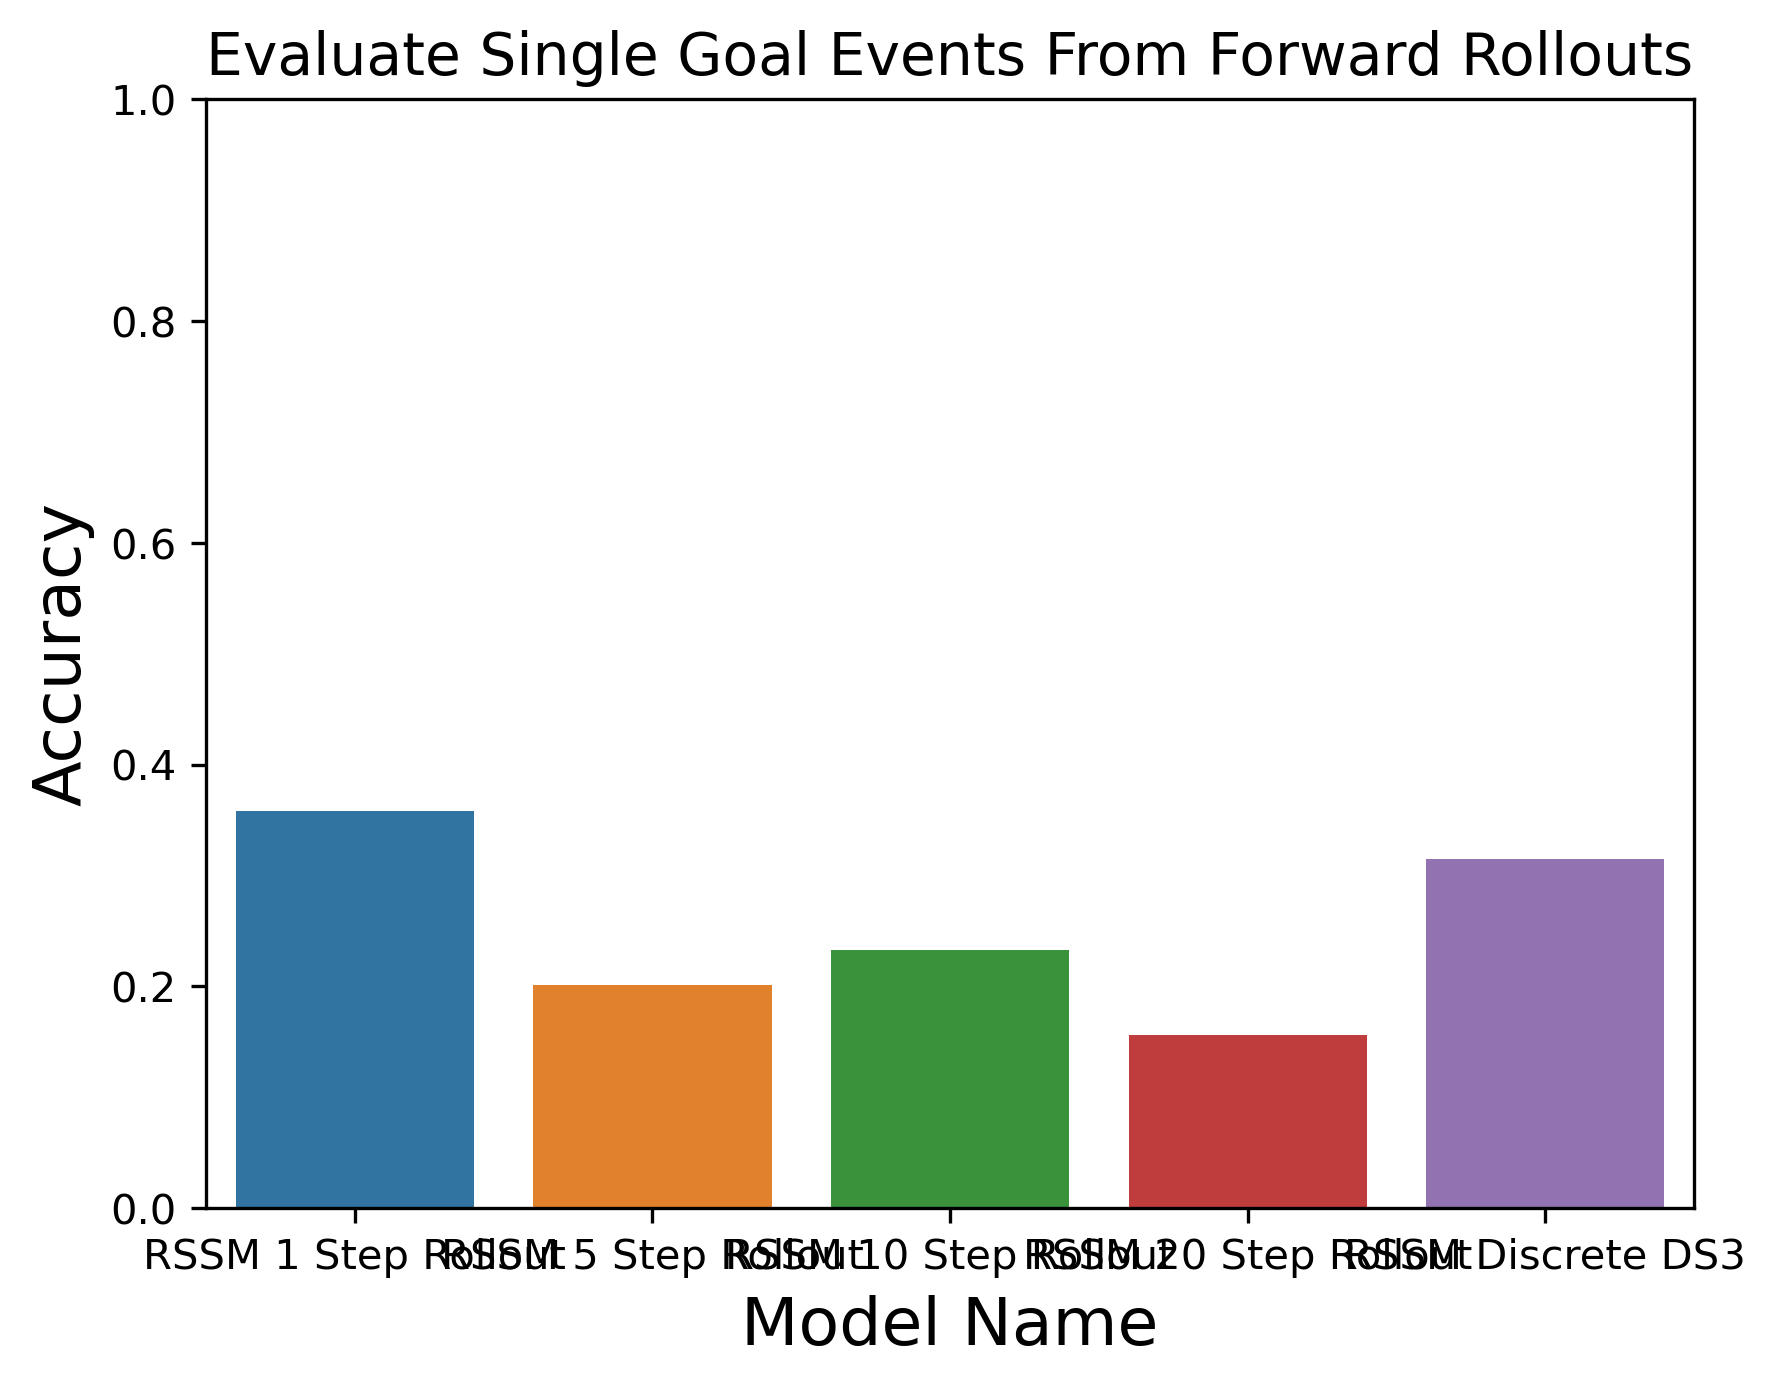
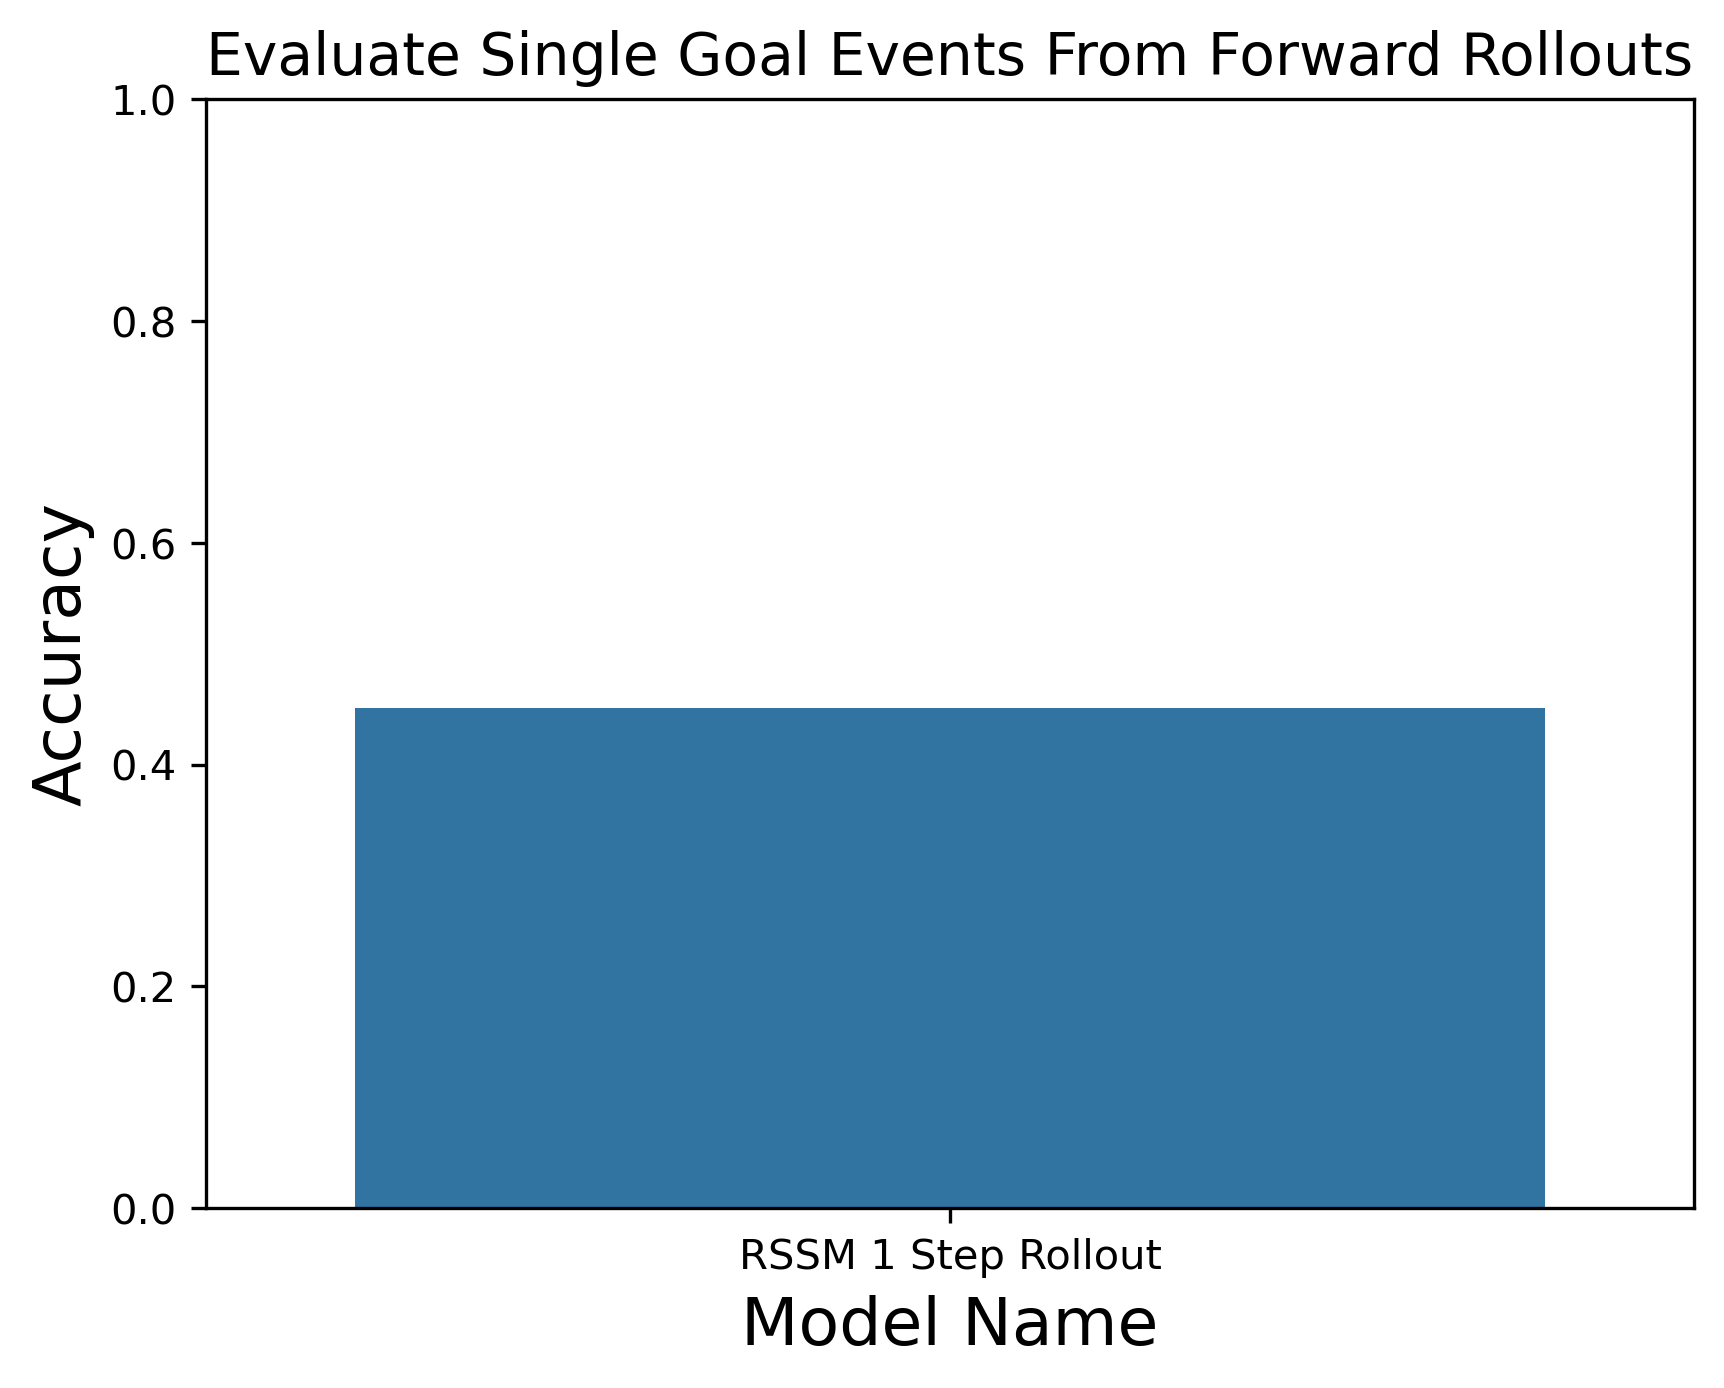
New results

diff --git a/eval_event_model_gt_temp.py b/eval_event_model_gt_temp.py
@@ -219,6 +219,12 @@ class Analysis(object):
         imagined_trajs = np.zeros([num_multi_goal_trajs, input_data.shape[1], input_data.shape[2]])
         real_trajs = []
         imag_trajs = []
+
+        # TEMP
+        # load events data
+        events_ds_file = os.path.join(args.analysis_dir,'results/event_inds/event_inds_mp_ds2.pkl')
+        events_dataset = pickle.load(open(events_ds_file, 'rb'))
+        event_inds = events_dataset[args.train_or_val]
         
         for i,row in enumerate(multi_goal_trajs):
             if i%50 == 0:
@@ -230,7 +236,25 @@ class Analysis(object):
             imagined_trajs[i,:steps2pickup,:] = x[:,:steps2pickup,:].cpu()
             # rollout model for the rest of the trajectory
             rollout_length = self.num_timepoints - steps2pickup
-            rollout_x = model.forward_rollout(x.cuda(), steps2pickup, rollout_length).cpu().detach()
+            # TEMP
+            # get closest future event state in that trajectory from burn in state
+            traj_event_inds = np.array(event_inds[row])
+            burn_in_ind = steps2pickup - 1
+            if args.use_end_state:
+                closest_event_ind = -1
+            else:
+                closest_event_ind = np.min(traj_event_inds[np.where(traj_event_inds > burn_in_ind)[0]])
+            # get event horizon from end state
+            event_horizon = closest_event_ind - burn_in_ind
+            event_state = input_data[row,closest_event_ind,:].unsqueeze(0)
+            assert torch.equal(event_state, x[:,closest_event_ind,:])
+            # first normalize event_horizon
+            event_horizon = float((event_horizon - 1) / ((300 - 50) - 1))
+            event_state = torch.cat([event_state, torch.tensor(event_horizon).unsqueeze(0).unsqueeze(0)], dim=-1)
+            # Call MSPredictorEventContext's forward_rollout with event_hat
+            with torch.no_grad():
+                rollout_x  = model.mp_model.forward_rollout(x.cuda(), event_state.cuda(), steps2pickup, rollout_length).cpu()
+            #rollout_x = model.forward_rollout(x.cuda(), steps2pickup, rollout_length).cpu().detach()
             # get end portion of true trajectory to compare to rollout
             real_traj = x[:,steps2pickup:,:].to("cpu")                
             assert rollout_x.size() == real_traj.size()
@@ -334,12 +358,19 @@ class Analysis(object):
         goal_inds = np.concatenate([single_goal_trajs, multi_goal_trajs])        
         non_goal_trajs = [i for i in range(len(input_data)) if i not in goal_inds]
         non_goal_trajs = non_goal_trajs[ :int(len(input_data)*partial)]
-        goal_inds =  np.random.choice(goal_inds, size=int(len(goal_inds)*partial), replace=False)                                    
+        goal_inds =  np.random.choice(goal_inds, size=int(len(goal_inds)*partial), replace=False)    
+        
+        # TEMP
+        # load events data
+        events_ds_file = os.path.join(args.analysis_dir,'results/event_inds/event_inds_mp_ds2.pkl')
+        events_dataset = pickle.load(open(events_ds_file, 'rb'))
+        event_inds = events_dataset[args.train_or_val]                                
 
         # compute non goal trajs first with batches
         counter = 0
         batch_trajs = []
         batch_inds = []
+        batch_events = []
         burn_in_length = self.args.non_goal_burn_in
         rollout_length = self.num_timepoints - burn_in_length
         for i in non_goal_trajs:
@@ -347,21 +378,46 @@ class Analysis(object):
             if counter % 100 == 0:
                 print(i)
             x = input_data[i,:,:]#.unsqueeze(0)
+            # get closest future event state in that trajectory from burn in state
+            traj_event_inds = np.array(event_inds[i])
+            burn_in_ind = burn_in_length - 1
+            if args.use_end_state:
+                closest_event_ind = -1
+            else:
+                closest_event_ind = np.min(traj_event_inds[np.where(traj_event_inds > burn_in_ind)[0]])
+            # get event horizon from end state
+            event_horizon = closest_event_ind - burn_in_ind
+            event_state = input_data[i,closest_event_ind,:]
+            assert torch.equal(event_state, x[closest_event_ind,:])
+            # first normalize event_horizon
+            event_horizon = float((event_horizon - 1) / ((300 - 50) - 1))
+            event_state = torch.cat([event_state, torch.tensor(event_horizon).unsqueeze(0)], dim=-1)
             batch_inds.append(i)
             batch_trajs.append(x)
+            batch_events.append(event_state)
             if counter > 0 and counter % self.args.batch_size == 0:
                 batch_x = torch.stack(batch_trajs, dim=0)
-                batch_x = torch.stack(batch_trajs, dim=0)
                 batch_x = batch_x.to(self.args.device)#model.DEVICE)
-                rollout_x = model.forward_rollout(batch_x, burn_in_length, rollout_length).cpu().detach()
+                batch_event_state = torch.stack(batch_events, dim=0)
+                batch_event_state = batch_event_state.to(self.args.device)#model.DEVICE)
+                # Call MSPredictorEventContext's forward_rollout with event_hat
+                with torch.no_grad():
+                    rollout_x  = model.mp_model.forward_rollout(batch_x, batch_event_state, burn_in_length, rollout_length).cpu()
+                #rollout_x = model.forward_rollout(batch_x, burn_in_length, rollout_length).cpu().detach()
                 batch_inds = np.array(batch_inds)
                 imagined_trajs[batch_inds,burn_in_length:,:] =  rollout_x
                 batch_trajs = []
                 batch_inds = []
+                batch_events = []
         # compute last batch that is less than batch_size
         batch_x = torch.stack(batch_trajs, dim=0)
         batch_x = batch_x.to(self.args.device)#model.DEVICE)
-        rollout_x = model.forward_rollout(batch_x, burn_in_length, rollout_length).cpu().detach()
+        batch_event_state = torch.stack(batch_events, dim=0)
+        batch_event_state = batch_event_state.to(self.args.device)#model.DEVICE)
+        # Call MSPredictorEventContext's forward_rollout with event_hat
+        with torch.no_grad():
+            rollout_x  = model.mp_model.forward_rollout(batch_x, batch_event_state, burn_in_length, rollout_length).cpu()
+        #rollout_x = model.forward_rollout(batch_x, burn_in_length, rollout_length).cpu().detach()
         batch_inds = np.array(batch_inds)
         imagined_trajs[batch_inds,burn_in_length:,:] =  rollout_x
         
@@ -370,7 +426,7 @@ class Analysis(object):
             counter += 1
             if counter % 100 == 0:
                 print(i)
-            x = input_data[i,:,:].unsqueeze(0)
+            x = input_data[i,:,:]#.unsqueeze(0)
             if i in single_goal_trajs:
                 # burn in to a few frames past the goal, so it is clear it is a single goal trial - TO DO THIS WILL BE DIFF FOR DS2
                 # get the only goal point in the trajectory
@@ -387,9 +443,25 @@ class Analysis(object):
             imagined_trajs[i,:burn_in_length,:] = x[:,:burn_in_length,:].cpu()
             # rollout model for the rest of the trajectory
             rollout_length = self.num_timepoints - burn_in_length
-            if x.dtype == torch.float64:
-                x = x.float()
-            rollout_x = model.forward_rollout(x.cuda(), burn_in_length, rollout_length).cpu().detach()
+            # TEMP
+            # get closest future event state in that trajectory from burn in state
+            traj_event_inds = np.array(event_inds[i])
+            burn_in_ind = burn_in_length - 1
+            if args.use_end_state:
+                closest_event_ind = -1
+            else:
+                closest_event_ind = np.min(traj_event_inds[np.where(traj_event_inds > burn_in_ind)[0]])
+            # get event horizon from end state
+            event_horizon = closest_event_ind - burn_in_ind
+            event_state = input_data[i,closest_event_ind,:]
+            assert torch.equal(event_state, x[closest_event_ind,:])
+            # first normalize event_horizon
+            event_horizon = float((event_horizon - 1) / ((300 - 50) - 1))
+            event_state = torch.cat([event_state, torch.tensor(event_horizon).unsqueeze(0)], dim=-1)
+            # Call MSPredictorEventContext's forward_rollout with event_hat
+            with torch.no_grad():
+                rollout_x  = model.mp_model.forward_rollout(x.cuda(), event_state.cuda(), burn_in_length, rollout_length).cpu()
+            #rollout_x = model.forward_rollout(x.cuda(), burn_in_length, rollout_length).cpu().detach()
             # store the steps after pick up with predicted frames in imagined_trajs
             imagined_trajs[i,burn_in_length:,:] = rollout_x
                             
@@ -500,6 +572,12 @@ class Analysis(object):
             multi_goal_trajs = self.exp_info_dict[self.args.train_or_val]['multi_goal_trajs']
             
         # TO DO, ANALYZE EVERY PICKUP EVENT SEPARATELY, INCLUDING MULTI GOAL TRAJS
+
+        # TEMP
+        # load events data
+        events_ds_file = os.path.join(args.analysis_dir,'results/event_inds/event_inds_mp_ds2.pkl')
+        events_dataset = pickle.load(open(events_ds_file, 'rb'))
+        event_inds = events_dataset[args.train_or_val]
         
         num_single_goal_trajs = len(single_goal_trajs)
         imagined_trajs = np.zeros([num_single_goal_trajs, input_data.shape[1], input_data.shape[2]])
@@ -524,7 +602,25 @@ class Analysis(object):
             imagined_trajs[i,:burn_in_length,:] = x[:,:burn_in_length,:].cpu()
             # rollout model for the rest of the trajectory
             rollout_length = num_timepoints - burn_in_length
-            rollout_x = model.forward_rollout(x.cuda(), burn_in_length, rollout_length).cpu().detach()
+            # TEMP
+            # get closest future event state in that trajectory from burn in state
+            traj_event_inds = np.array(event_inds[row])
+            burn_in_ind = burn_in_length - 1
+            if args.use_end_state:
+                closest_event_ind = -1
+            else:
+                closest_event_ind = np.min(traj_event_inds[np.where(traj_event_inds > burn_in_ind)[0]])
+            # get event horizon from end state
+            event_horizon = closest_event_ind - burn_in_ind
+            event_state = input_data[row,closest_event_ind,:].unsqueeze(0)
+            assert torch.equal(event_state, x[:,closest_event_ind,:])
+            # first normalize event_horizon
+            event_horizon = float((event_horizon - 1) / ((300 - 50) - 1))
+            event_state = torch.cat([event_state, torch.tensor(event_horizon).unsqueeze(0).unsqueeze(0)], dim=-1)
+            # Call MSPredictorEventContext's forward_rollout with event_hat
+            with torch.no_grad():
+                rollout_x  = model.mp_model.forward_rollout(x.cuda(), event_state.cuda(), burn_in_length, rollout_length).cpu()
+            #rollout_x = model.forward_rollout(x.cuda(), burn_in_length, rollout_length).cpu().detach()
             # get end portion of true trajectory to compare to rollout
             real_traj = x[:,burn_in_length:,:].to("cpu")
             assert rollout_x.size() == real_traj.size()

diff --git a/make_smaller_dataset.py b/make_smaller_dataset.py
@@ -1,0 +1,93 @@
+import argparse
+import pickle
+from constants_lc import DEFAULT_VALUES
+import os
+import torch
+from torch.utils.data import TensorDataset, Subset
+
+from constants_lc import DEFAULT_VALUES
+
+def load_args():
+    parser = argparse.ArgumentParser()
+    parser.add_argument('--data_dir', type=str, default=DEFAULT_VALUES['data_dir'])
+    parser.add_argument('--dataset', type=str, default=DEFAULT_VALUES['dataset'])
+    parser.add_argument('--new_ds_size', type=int, default='New Dataset Size')
+    return parser.parse_args()
+
+if __name__ == '__main__':
+    args = load_args()
+    # load data
+    dataset_file = os.path.join(args.data_dir, args.dataset)
+    loaded_dataset = pickle.load(open(dataset_file, 'rb'))
+    train_dataset, test_dataset = loaded_dataset
+    train_data = train_dataset.dataset.tensors[0][train_dataset.indices,:,:]
+    """ if args.train_or_val == 'train':
+        input_data = train_dataset.dataset.tensors[0][train_dataset.indices,:,:]
+    else:
+        input_data = test_dataset.dataset.tensors[0][test_dataset.indices,:,:] """
+    # load dataset info
+    exp_info_file = dataset_file[:-4]+'_exp_info.pkl'
+    if os.path.isfile(exp_info_file):
+        with open(exp_info_file, 'rb') as f:
+            exp_info_dict = pickle.load(f)
+    else:
+        print('DS info dict not found')
+
+    keys2ignore = ['event_logs', 'exp_names', 'goal_timepoints', 'pickup_timepoints', 'indices', 'single_goal_trajs', 'multi_goal_trajs']
+
+    # get fraction of new ds size from old ds size
+    partial = args.new_ds_size / len(train_data)
+
+    new_ds_inds = []
+    # new exp_info_dict
+    new_exp_info_dict = {}
+    new_exp_info_dict['train'] = {}
+    fewest_trial_num = args.new_ds_size
+    for key in exp_info_dict['train'].keys():
+        if key in keys2ignore:
+            continue    
+
+        trial_type_inds = exp_info_dict['train'][key]
+        trial_type_inds = trial_type_inds[:int(partial*len(trial_type_inds))]
+        new_ds_inds.extend(trial_type_inds)
+        new_exp_info_dict['train'][key] = trial_type_inds
+
+        if len(trial_type_inds) < fewest_trial_num:
+            fewest_trial_num = len(trial_type_inds)
+            fewest_trial_type = key
+
+    # add more trials from fewest_trial_type to get to new_ds_size
+    leftover_trials = args.new_ds_size - len(new_ds_inds)
+    if leftover_trials > 0:
+        trial_type_inds = exp_info_dict['train'][fewest_trial_type]
+        trial_type_inds = trial_type_inds[int(partial*len(trial_type_inds)):(int(partial*len(trial_type_inds))+leftover_trials)]
+        new_ds_inds.extend(trial_type_inds)
+        new_exp_info_dict['train'][fewest_trial_type].extend(trial_type_inds)
+    assert len(new_ds_inds) == args.new_ds_size, 'New DS size is not correct'
+
+    # sort new_ds_inds
+    new_ds_inds.sort()
+    new_input_data = train_data[new_ds_inds,:,:]
+    val_data = test_dataset.dataset.tensors[0][test_dataset.indices,:,:]
+    # concat new_input_data and val_data
+    new_data = torch.cat((new_input_data, val_data), dim=0)
+    new_dataset = torch.utils.data.TensorDataset(new_data)
+    train_idx = list(range(len(new_input_data)))
+    val_idx = list(range(len(new_input_data), len(new_data)))
+    train_dataset = Subset(new_dataset, train_idx) # a subset of the dataset with train indices
+    test_dataset = Subset(new_dataset, val_idx) # a subset of the dataset with test indices
+    new_exp_info_dict['train']['indices'] = train_idx
+    new_exp_info_dict['train']['goal_timepoints'] = exp_info_dict['train']['goal_timepoints'][train_idx,:]
+    new_exp_info_dict['train']['pickup_timepoints'] = exp_info_dict['train']['pickup_timepoints'][train_idx,:]
+    new_exp_info_dict['train']['single_goal_trajs'] = [idx for idx in train_idx if idx in exp_info_dict['train']['single_goal_trajs']]
+    new_exp_info_dict['train']['multi_goal_trajs'] = [idx for idx in train_idx if idx in exp_info_dict['train']['multi_goal_trajs']]
+    new_exp_info_dict['val'] = exp_info_dict['val']
+
+    save_file = dataset_file[:-4]+'_size'+str(args.new_ds_size)+'.pkl'
+    full_dataset = [train_dataset, test_dataset]
+    with open(save_file, 'wb') as handle:
+        pickle.dump(full_dataset, handle, protocol=pickle.HIGHEST_PROTOCOL)
+
+    exp_info_file = save_file[:-4]+'_exp_info.pkl'
+    with open(exp_info_file, 'wb') as handle:
+        pickle.dump(exp_info_dict, handle, protocol=pickle.HIGHEST_PROTOCOL)

diff --git a/train_world_model.py b/train_world_model.py
@@ -146,16 +146,15 @@ def main():
     burn_in_length = args.burn_in_length
     rollout_length = args.rollout_length
     sequence_length = burn_in_length + rollout_length
-    #replay_buffer = ReplayBuffer(sequence_length)
-    replay_buffer = ReplayBufferFrameStack(sequence_length, num_stack=4)
+    replay_buffer = ReplayBuffer(sequence_length)
     replay_buffer.upload_training_set(train_data)    
     batch_size = args.batch_size
     print(f'Batch size: {batch_size}')
     batches_per_epoch = np.min([replay_buffer.buffer_size // batch_size, 50])
     
     # make validation data
-    #val_buffer = ReplayBuffer(sequence_length)
-    val_buffer = ReplayBufferFrameStack(sequence_length, num_stack=4)
+    val_buffer = ReplayBuffer(sequence_length)
+    breakpoint()
     val_buffer.upload_training_set(val_data)
     seed = 100 # set seed so every model sees the same randomization
     val_batch_size = np.min([val_data.size(0), 1000])

diff --git a/constants_lc.py b/constants_lc.py
@@ -174,7 +174,8 @@ DEFAULT_VALUES = {
     #'model_keys': ['imma','gat','rfm','rfm_rnn'],
     #'model_keys': ['rssm_disc_ds2', 'rssm_disc_ds3', 'rssm_cont_ds3', 'mp_ds3', 'md_ds3', 'transformer_iris'],
     #'model_keys': ['rssm_disc_ds3', 'mp_ds2', 'event_context_mp'],
-    'model_keys': ['rssm_1step', 'rssm_5step', 'rssm_10step', 'rssm_20step', 'rssm_disc_ds3'],
+    #'model_keys': ['rssm_1step', 'rssm_5step', 'rssm_10step', 'rssm_20step', 'rssm_disc_ds3'],
+    'model_keys': ['event_context_mp', 'em_dropout', 'event_model2', 'emodel_no_horizon', 'pred_end_state', 'em_2048', 'em_lr5e-5', 'em_min_horizon', 'em_gt'],    
     'eval_types': ['goal_events', 'multigoal_events', 'move_events', 'pickup_events', 'displacement'],
     'move_threshold': 4.0,
     'non_goal_burn_in': 50,

diff --git a/models.py b/models.py
@@ -2563,7 +2563,7 @@ class ReplayBufferEndState:
             end_state = self.buffer[ep_ind,-1,:]
             batch_end_states.append(end_state)
             # how far away is the end state, with 0 equaling now, 1 the entire episode length
-            end_horizon = (self.episode_length - (start + self.burn_in_length)) / (self.episode_length - self.burn_in_length)
+            end_horizon = float((self.episode_length - (start + self.burn_in_length)) / (self.episode_length - self.burn_in_length))
             batch_end_horizons.append(end_horizon)
         trajectories = torch.stack(batch_trajs, dim=0)
         end_states = torch.stack(batch_end_states, dim=0)

diff --git a/visualize_model_rollouts.py b/visualize_model_rollouts.py
@@ -254,13 +254,6 @@ if __name__ == '__main__':
         input_data = train_dataset.dataset.tensors[0][train_dataset.indices,:,:]
     else:
         input_data = test_dataset.dataset.tensors[0][test_dataset.indices,:,:]
-
-    dataset_file2 = os.path.join(args.data_dir, 'data_norm_velocity_val_only.pkl')
-    # save pickle file with input_data
-    with open(dataset_file2, 'wb') as f:
-        pickle.dump(input_data, f)
-
-    breakpoint()
         
     if args.dataset in DATASET_NUMS and DATASET_NUMS[args.dataset] == 1:
         # first dataset use states to define events
